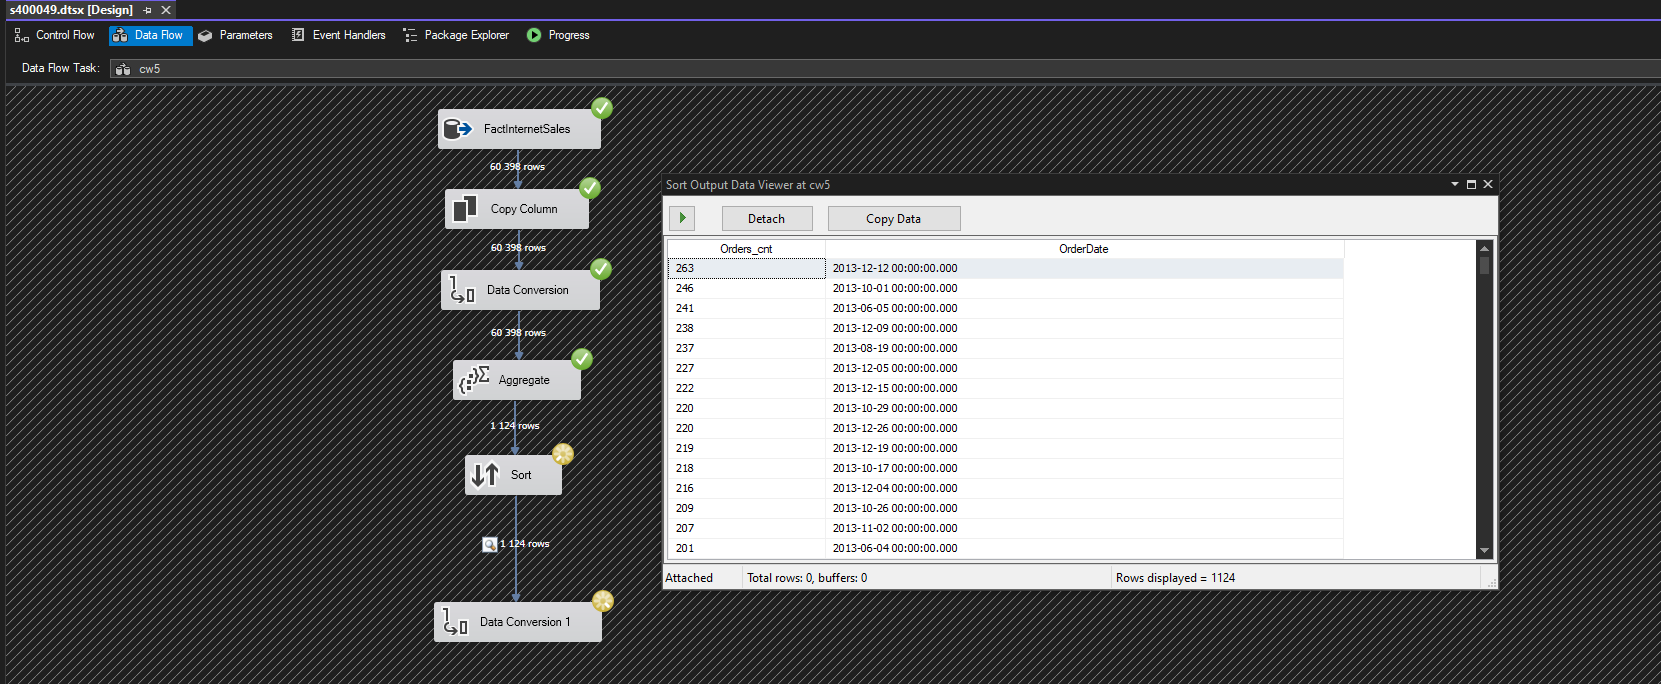
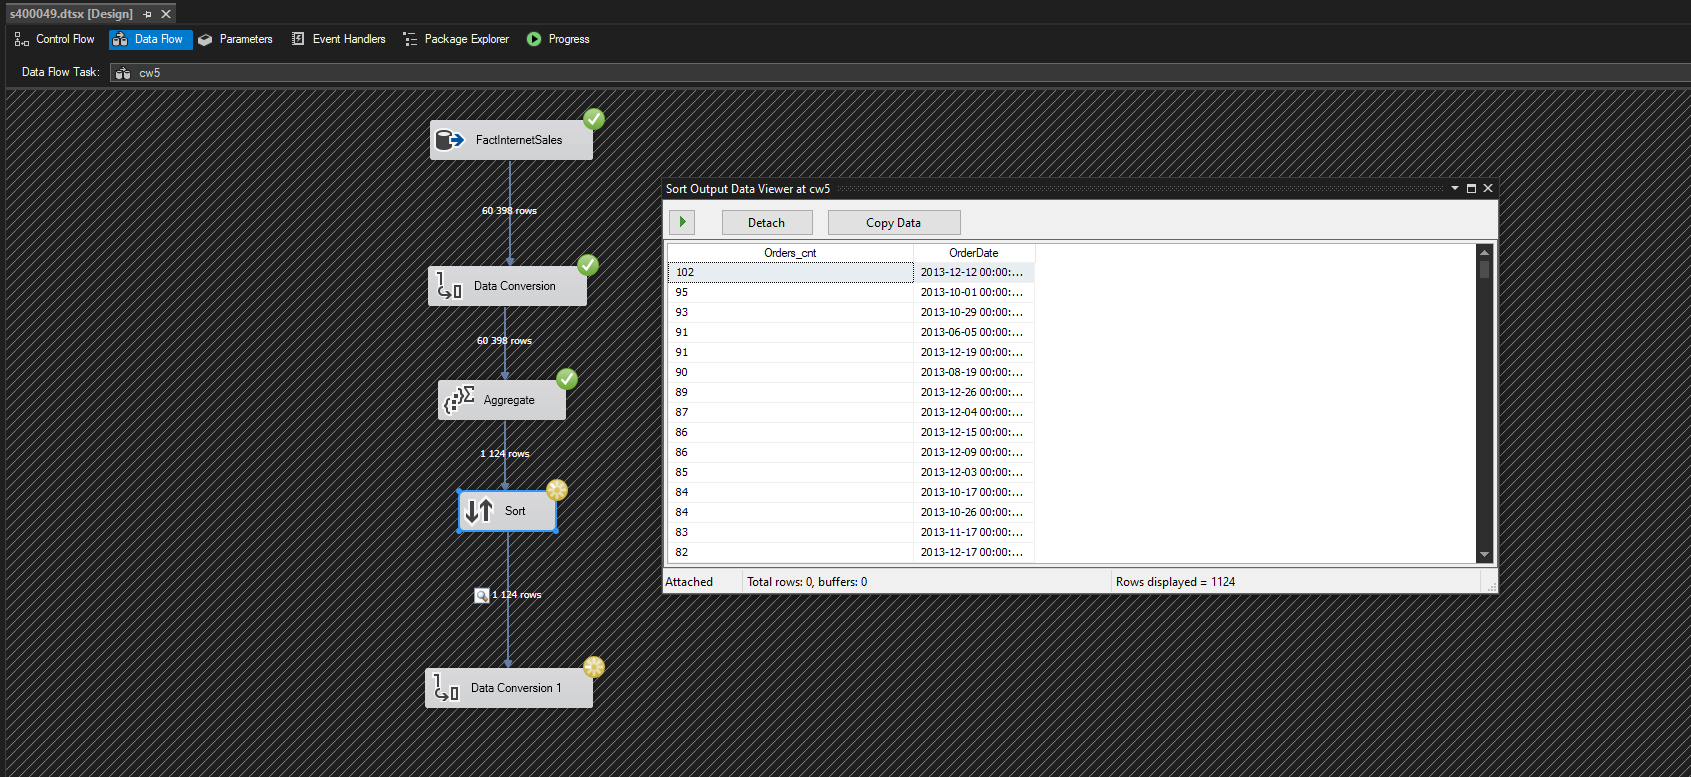
Cwiczenia 5 fixed

diff --git a/CHANGELOG.md b/CHANGELOG.md
@@ -7,6 +7,17 @@ and this project adheres to [Semantic Versioning](https://semver.org/spec/v2.0.0
 
 
 
+## 2023-11-14
+
+### Added
+
+- New Screenshot `/Cw5/zadanie7_400049.png` of Data Viewer from .dtsx package execution.
+
+### Fixed
+
+- Fixed Package `/Cw5/s400049.dtsx` which now counts number of orders in each day instead of individual sold products.
+- Query 8 and query 8a `/Cw5/zadanie8_400049.sql` to show Orders count instead of individual sold products
+
 ## 2023-11-13
 
 ### Added
